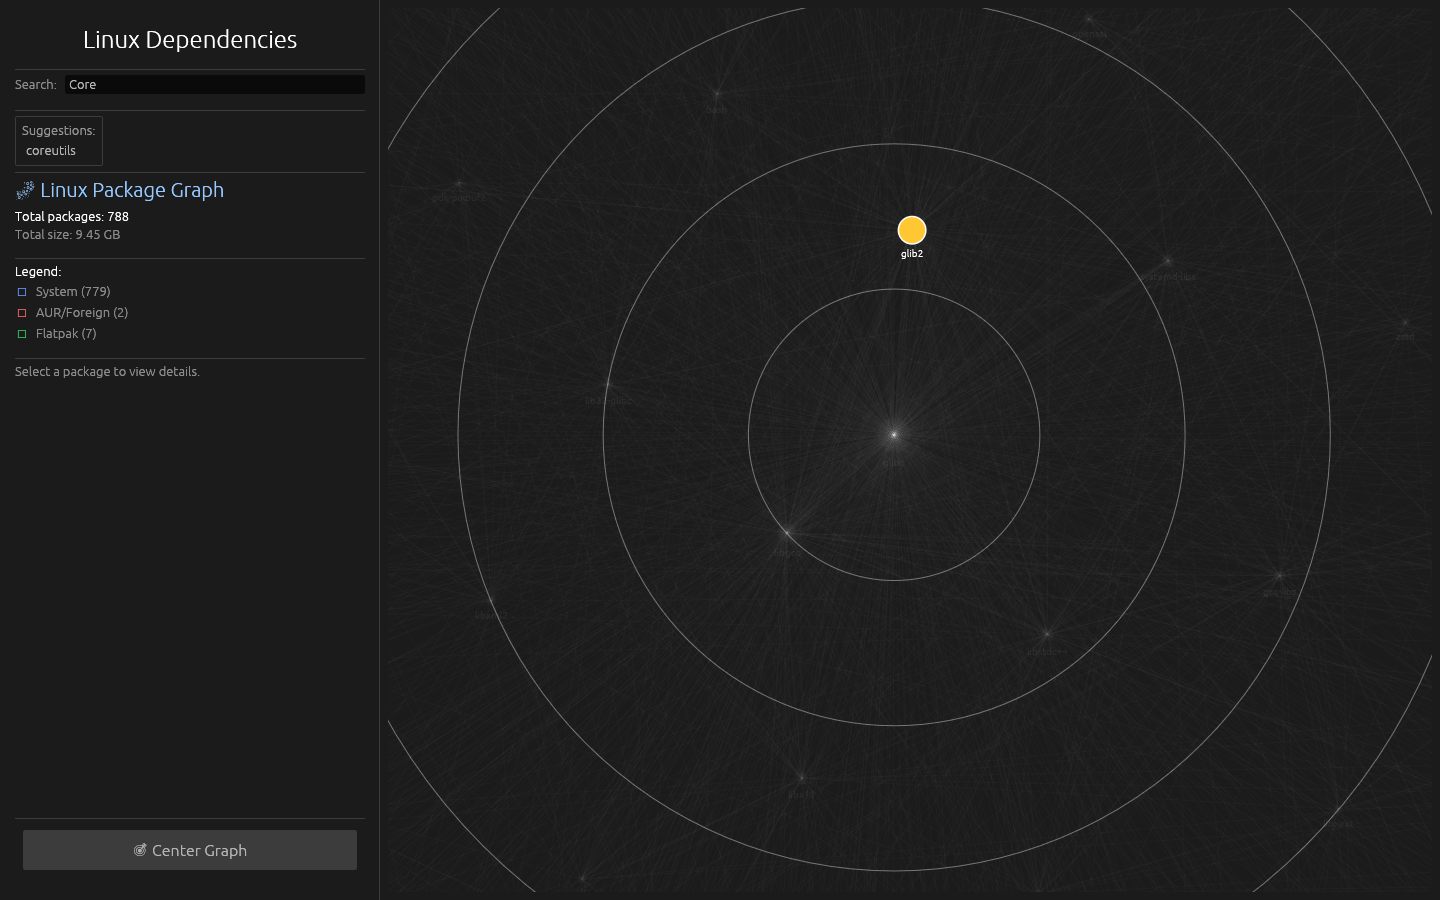
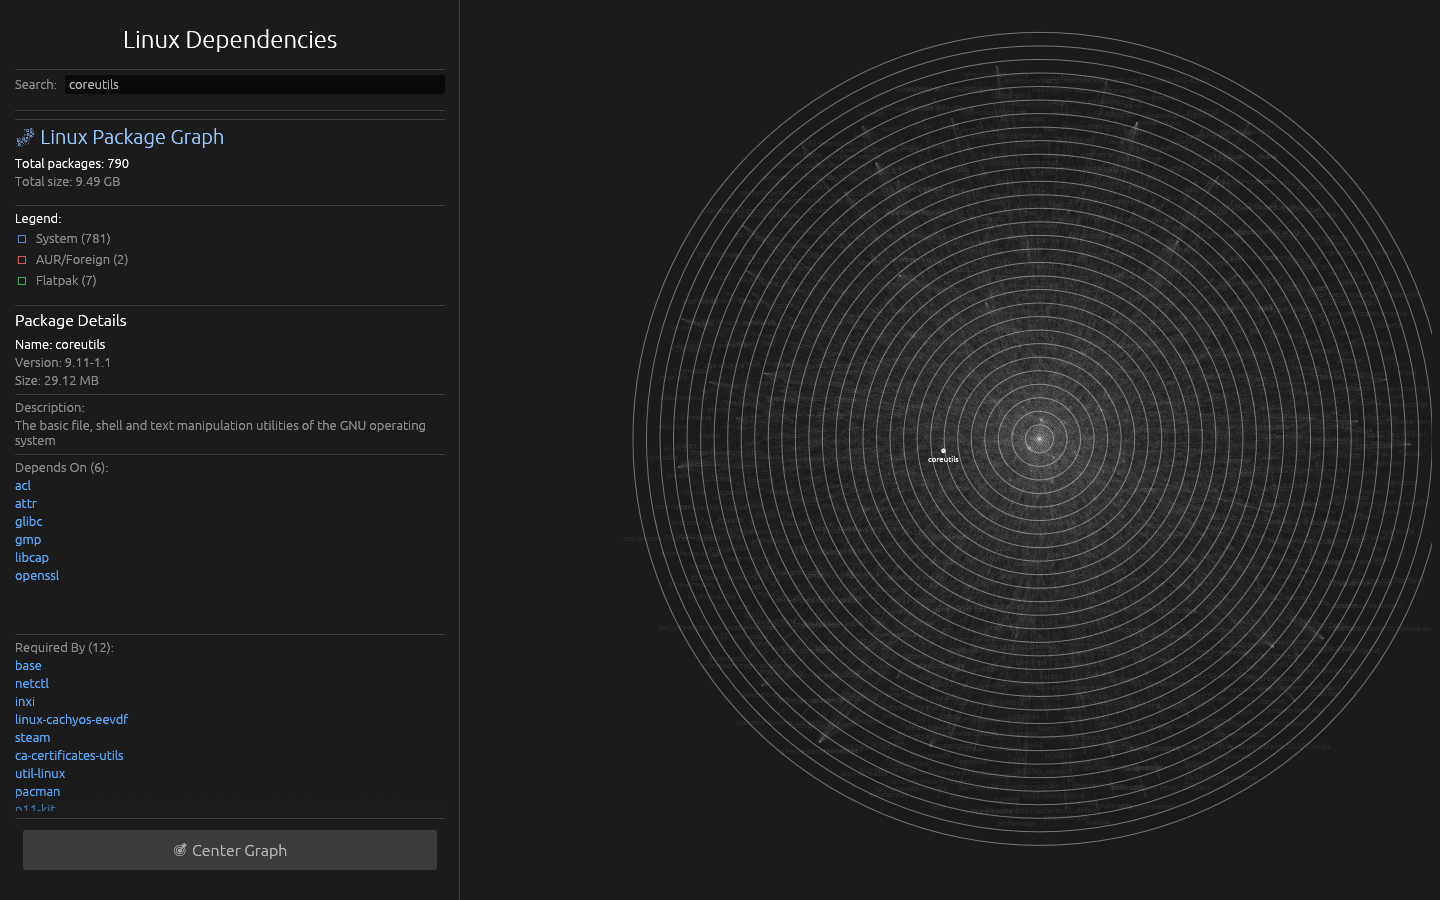
Update screenshots and sidebar layout

diff --git a/src/app.rs b/src/app.rs
@@ -55,7 +55,7 @@ impl eframe::App for LinuxGraphApp {
         frame.inner_margin = egui::Margin::same(15); // Красивые отступы
 
         egui::Panel::left("sidebar")
-            .exact_size(380.0)
+            .exact_size(460.0)
             .frame(frame)
             .show_inside(ui, |ui| {
                 // Кнопка центрирования в самом низу панели
@@ -235,7 +235,9 @@ impl eframe::App for LinuxGraphApp {
                         egui::ScrollArea::vertical()
                             .id_salt("deps")
                             .max_height(150.0)
+                            .auto_shrink([false, false])
                             .show(ui, |ui| {
+                                ui.set_width(ui.available_width());
                                 for dep in &node.info.depends_on {
                                     if ui.link(dep).clicked()
                                         && let Some(&i) = graph._name_to_index.get(dep)
@@ -249,7 +251,9 @@ impl eframe::App for LinuxGraphApp {
                         egui::ScrollArea::vertical()
                             .id_salt("reqs")
                             .max_height(150.0)
+                            .auto_shrink([false, false])
                             .show(ui, |ui| {
+                                ui.set_width(ui.available_width());
                                 for req in &node.info.required_by {
                                     if ui.link(req).clicked()
                                         && let Some(&i) = graph._name_to_index.get(req)